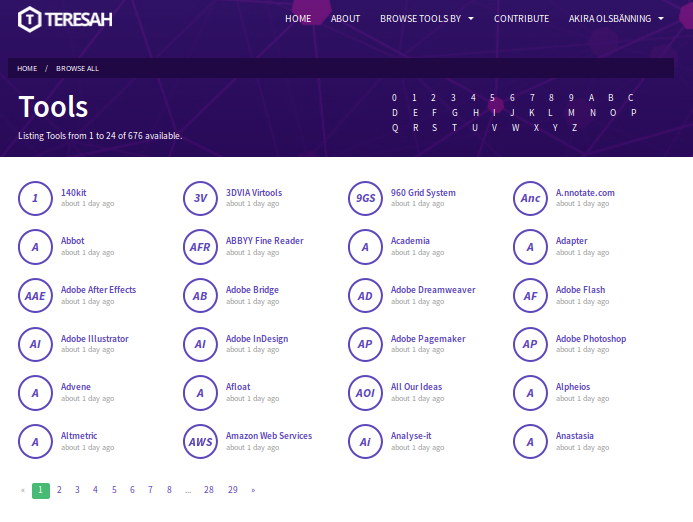
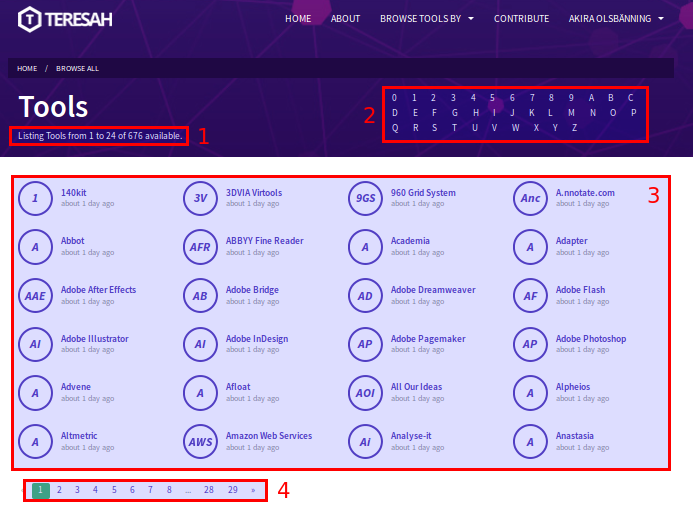
Adding annotations for more images

diff --git a/documentation/user_manual/teresah_manual.md b/documentation/user_manual/teresah_manual.md
@@ -39,7 +39,14 @@ Next you will be taken to the login page. Since we are assuming that you don't h
 ![The sign up form for creating a new user account](./images/sign_up.png)
 *The sign up form for creating a new user account*
 
-Now we need some basic information about you: (1) Your name, (2) Your prefered locale (currently English and Swedish are available), (3) A mail adress (4) The password you want to use. Repeat the password. Once you have filled out the fields correctly, click on "Sign Up".
+Now we need some basic information about you: 
+
+- (1) Your name
+- (2) Your prefered locale (currently English and Swedish are available)
+- (3) A mail adress 
+- (4) The password you want to use. Repeat the password. 
+
+Once you have filled out the fields correctly, click on "Sign Up".
 
 ![The mail sent to new users.](./images/welcome_mail.png)
 *The mail sent to new users.*
@@ -60,7 +67,7 @@ Lets look around the tools already in the TERESAH listings
 ![The top bar tool browsing menu.](./images/browse_tools_menu.png)
 *The top bar tool browsing menu.*
 
-- 1) Search for a tool by its name
+- 1) Search for a tool by its name
 - 2) Browse the complete TERESAH listings in alphabetical order
 - 3) Browse through the different facet listings
 - 4) See a listing of the most popular tools
@@ -68,37 +75,50 @@ Lets look around the tools already in the TERESAH listings
 ![The search page](./images/search_page.png)
 *The search page*
 
+- 1) The number of tools, on the current page and the total amount of tools matching your currently selected search filters (3)
+- 2) General search box.
+- 3) Search filters. By selecting one or more of these, only tools matching those specific categories are shown
+- 4) Alphabetical listing of all tools matching your selected search filters from (3)
+- 5) Page switcher, showing how many full pages are needed to show the listings in (4).
+
 ![Browsing the alphabetical listing of all tools](./images/browse_all_tools_page.png)
 *Browsing the alphabetical listing of all tools*
+
+- 1) The number of tools, on the current page and the total amount of tools matching your currently selected letter.
+- 2) Alphabetical selection. Click on a letter to show only tools beginning with that initial.
+- 3) Tools listing
+- 4) Page selector
 
 ![Browsing tools by Facet](./images/browse_tools_by_facet_page.png)
 *Browsing tools by Facet*
 
+Here you can browse tools by their facet.
+
+- 1) Developer - who created the tool?
+- 2) Keyword - the free-form keywords associated with the tool
+- 3) License - under what license is the tool released? (eg. Creative Commons, GPL, Properitary...)
+- 4) Platform - what system does the tool require to run? (eg. Windows, Linux, the web...)
+- 5) Standards - which technical standards does the tool support? (eg. XML, JSON, HTTP...)
+- 6) Tool type - just what kind of tool is this? (eg. text, graphics, audio...)
+
 ![Viewing a specific tool](./images/viewing_a_tool.png)
 *Viewing a specific tool*
 
--   1) The name of the tool. As you can see, each tool has one or more initials inside the cicle to the left. Tools with a name made up from more than one word has more letters in the circle.
-
--   2) Data sources. In this screenshot, TERESAH's own source is selected. You can also get data from dirtdirectory.org, and more sources may be added in the future.
-
--   3) Data about this tool, from the source choosen above.
-
--   4) Information about the currently selected data source.
-
--   5) Data export. Here you can get the data for the tool in the format of your choice.
-
--   6) Similar tools. Tools similar to the current one that you also might find interesting/relevant.
+- 1) The name of the tool. As you can see, each tool has one or more initials inside the cicle to the left. Tools with a name made up from more than one word has more letters in the circle.
+- 2) Data sources. In this screenshot, TERESAH's own source is selected. You can also get data from dirtdirectory.org, and more sources may be added in the future.
+- 3) Data about this tool, from the source choosen above.
+- 4) Information about the currently selected data source.
+- 5) Data export. Here you can get the data for the tool in the format of your choice.
+- 6) Similar tools. Tools similar to the current one that you also might find interesting/relevant.
 
 Exporting tool RDF info
 -----------------------
 
 When viewing a tool in TERESAH, you can export information about it in RDF format. Depending of what you want to use the RDF for, you can export it in different languages.
 
--   RDF/JSONLD - A JSON dialect for exchange of links
-
--   RDF/TURTLE - Terse RDF Triple Language
-
--   RDF/XML - Plain XML
+- RDF/JSONLD - A JSON dialect for exchange of links
+- RDF/TURTLE - Terse RDF Triple Language
+- RDF/XML - Plain XML
 
 Just click on the format you want, and your browser should either show it in a separate page or let you download and save it in a file.
 
